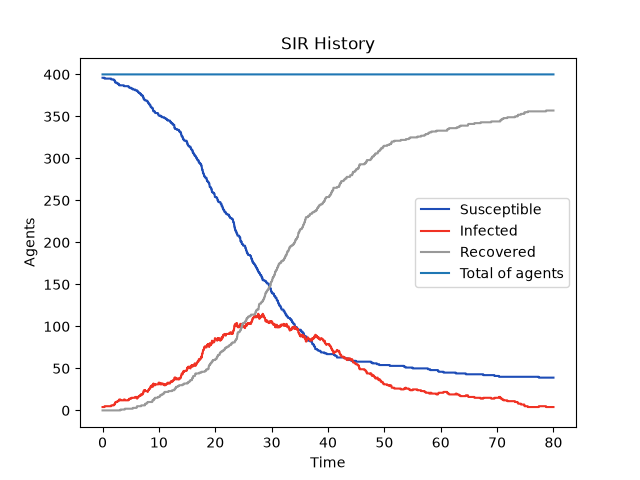
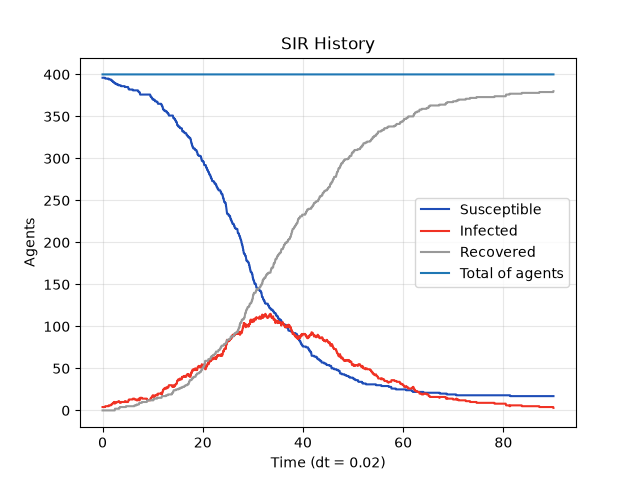
added checking for hslf timestep with multiple random seeds

diff --git a/src/del_2.py b/src/del_2.py
@@ -1,7 +1,8 @@
 import numpy as np
 import matplotlib.pyplot as plt
 from matplotlib.ticker import MaxNLocator
-rng = np.random.default_rng(42)
+
+
 
 
 # Colors - same as assignment examples
@@ -11,7 +12,7 @@ gray = "#999999" #recovered
 
 # position and distance funtions
 
-def random_positions(n,  Lx , Ly, margin=0.2,):
+def random_positions(n,  Lx , Ly, margin=0.2):
     """Generate n uniformly distributed points inside the box."""
     x = rng.uniform(margin, Lx - margin, n)
     y = rng.uniform(margin, Ly - margin, n)
@@ -25,14 +26,16 @@ def _reflect(position_coor, L):
     position_coor = np.where(position_coor > L , 2*L - position_coor, position_coor)
     return position_coor
 
-def update_position(position, step, N, Lx = 12.0, Ly = 8.0):
+def update_position(position, step, N, Lx = 20.0, Ly = 20.0):
     new = position + step*rng.standard_normal((N,2))
     new[:,0] = _reflect(new[:,0], Lx)
     new[:,1] = _reflect(new[:,1], Ly)
+    if ((Lx < np.any(new[:,0] < 0)) or (Ly < np.any(new[:,0] < 0))):
+        raise ValueError('Agent has ventured outside of the box')
     return new
 
 
-def distance(X1, X2):
+def distance_2(X1, X2):
     return np.sum((X1[:, None, :] - X2[None, :, :])**2, axis=2)
 
 
@@ -61,19 +64,19 @@ def initial_state(N, I0, R0, Lx, Ly, margin=0.2):
     return position, state, n_infected, t_infected, t_recovered
 
 def inf_step(I, position, state, n_inf, t_inf, t, r_inf, lam, dt):
-    S = np.where(state == 0)[0] # gives index of S from position array
+    S = np.where(state == 0)[0]         # gives index of S from position array
     
     
     if len(S) == 0 or len(I) == 0:
         return
-    in_radius = distance(position[S], position[I]) < r_inf**2
-    k = in_radius.sum(axis =1) # number of infected
+    in_radius = distance_2(position[S], position[I]) < r_inf**2
+    k = in_radius.sum(axis =1)          # number of infected
     P = P_tot_infection(k,lam, dt)
     new = rng.random(len(S)) < P
 
     for a in np.where(new)[0]:              
         inf_sorces = I[in_radius[a]]                  
-        src = rng.choice(inf_sorces)   #since all probabilites have same l, we can choose infection source randomly        
+        src = rng.choice(inf_sorces)    # since all probabilites have same l, we can choose infection source randomly        
         n_inf[src] += 1
         state[S[a]] = 1
         t_inf[S[a]] = t
@@ -86,21 +89,40 @@ def rec_step(I, state, t_rec, t, gamma, dt):
         state[I[a]] = 2
         t_rec[I[a]] = t
 
-def simulate(N, T, dt, r_inf, lam, gamma, D, Lx, Ly, I0, R0):
+def simulate(N, T, dt, r_inf, lam, gamma, D, Lx, Ly, I0, R0, seed = 42):
+    global rng 
+    rng = np.random.default_rng(seed)
+
     step = np.sqrt(2*D*dt)
     pos, state, n_inf, t_inf, t_rec = initial_state(N, I0, R0, Lx=Lx, Ly=Ly)
     ts = np.arange(0, T + 0.5*dt, dt)
     sir_history = np.zeros((len(ts), 3), dtype=int)
-    for n, t in enumerate(ts):
+    sir_history[0] = [(state==0).sum(), (state==1).sum(), (state==2).sum()]
+
+    for n, t in enumerate(ts[1:]):
         pos = update_position(pos, step, N, Lx, Ly)
         I = np.where(state == 1)[0]
-        inf_step(I, pos, state, n_inf, t_inf, t, r_inf, lam, dt)
-        rec_step(I, state, t_rec, t, gamma, dt)
-        sir_history[n] = [(state==0).sum(), (state==1).sum(), (state==2).sum()]
+
+        prev_state = state.copy()
+
+        inf_step(I, pos, state, n_inf, t_inf, t, r_inf, lam, dt)    #who gets infected
+        rec_step(I, state, t_rec, t, gamma, dt)                     #who recovers
+        
+        transition = state - prev_state
+
+        #test for illegal transitions
+        if np.any((transition > 1 )| (transition < 0)):
+            raise ValueError(f"Illegal transition at t={t:.2f}")
+        
+        sir_history[n + 1] = [(state==0).sum(), (state==1).sum(), (state==2).sum()]
+       
+        #check for maintaining number of agents
+        if (np.sum(sir_history[n+1]) != N):
+            raise ValueError(f'Total number of agents is not constant for {n+1}')
 
     return ts, sir_history, n_inf, t_inf, t_rec
 
-def plot_sir(sir_history, ts, filename = None):
+def plot_sir(sir_history, ts, dt,  filename = None):
     fig, ax = plt.subplots()
     ax.plot(ts, sir_history[:,0],color = blue, label = 'Susceptible')
     ax.plot(ts, sir_history[:,1], color = red, label = 'Infected')
@@ -110,37 +132,70 @@ def plot_sir(sir_history, ts, filename = None):
     ax.legend()
     ax.set_title('SIR History')
     ax.set_ylabel('Agents')
-    ax.set_xlabel('Time')
+    ax.set_xlabel(f'Time (dt = {dt})')
+    ax.grid(alpha = 0.3)
     if filename is not None:
         plt.savefig(filename)
 
+def timestep_study(N, T, r_inf, lam, gamma, D, Lx, Ly, I0, R0, dts, seeds):
+    for dt in dts:
+        peaks, t_peaks, totals = [], [], []
+        for seed in seeds:
+            ts, sir, *_ = simulate(N=N, T=T, dt=dt, r_inf=r_inf, lam=lam, gamma=gamma,
+                                   D=D, Lx=Lx, Ly=Ly, I0=I0, R0=R0, seed=seed)
+            I = sir[:, 1]
+            peaks.append(I.max())
+            t_peaks.append(ts[I.argmax()])
+            totals.append(N - sir[-1, 0] - R0)
+
+        peaks, t_peaks, totals = np.array(peaks), np.array(t_peaks), np.array(totals)
+        print(f"dt = {dt}: peak I = {peaks.mean():.1f} ± {peaks.std():.1f}, "
+              f"t_peak = {t_peaks.mean():.1f} ± {t_peaks.std():.1f}, "
+              f"total infected = {totals.mean():.1f} ± {totals.std():.1f}")
+
 def main():
-    #TODO: find out how to:  kontrollere at  bare de tillatte sykdomsovergangene forekommer
-    #       tillatte (gammel, ny)-par: S→S, S→I, I→I, I→R, R→R
+    
     #TODO: deloppgave 2a punkt 4 og 5
-    N = 400 #number of agents
-    I0 = 4 #number of infected at start
-    R0 =0 #number of recovered at start
-    Lx = 20
-    Ly = 20
-    D = 2
-    r_inf = 1 
-    lam =0.1 #lambda: infection rate of S inside infectionradius f I 
-    gamma = 0.1 # gamma:
+    N = 400         #number of agents
+    I0 = 4          #number of infected at start
+    R0= 0           #number of recovered at start
+    Lx = Ly = 20
+    D = 2           #movement param
+    r_inf = 1       #infection radius
+    lam =0.1        #lambda: infection rate of S inside infectionradius f I 
+    gamma = 0.1     #gamma: recovery rate
     
     dt = 0.02
-    T = 80 # total time of simulation
+    T = 90          #total time of simulation
     
     
     #Test with 
-    ts, sir_history, n_inf, t_inf, t_rec = simulate(N=N, T=T, dt=dt, r_inf=r_inf,
+    ts, sir_history, *_ = simulate(N=N, T=T, dt=dt, r_inf=r_inf,
                                             lam=lam, gamma=gamma, D=D, 
                                             Lx=Lx, Ly=Ly, I0=I0, R0=R0)
-    #plot_sir(sir_history, ts, filename="figures/SIR_hist_with_starting_values.png")
-    
-    plt.show()
+    #plot_sir(sir_history, ts, dt = dt, filename="figures/SIR_hist_with_starting_values.png")
+    #plt.show() 
 
-    
+    #check boundary conditions
+    '''
+    lam_bc = [0, lam]
+    I0_bc = [I0, 0]
+    for l, i0 in zip(lam_bc, I0_bc):
+        ts, sir_his, n_inf, t_inf, t_rec = simulate(N=N, T=T, dt=dt, r_inf=r_inf,
+                                                lam=l, gamma=gamma, D=D, 
+                                                Lx=Lx, Ly=Ly, I0=i0, R0=R0)
+        if ((sir_his[0,0] != sir_his[-1,0]) or (sir_his[-1,2] != R0 + i0) or (sir_his[-1,1] != 0)):
+            raise ValueError(f'The boundary conditions for lambda = {l} and I0 = {i0} give unexpected values')
+    '''
+    #undersøke tidssteg
+    dts = [dt, dt/2]
+    random_seeds = range(10)
+    timestep_study(N, T, r_inf, lam, gamma, D, Lx, Ly, I0, R0, dts=dts, seeds=random_seeds)
+
+
+        
+
+
     
 
 if __name__ == '__main__':
